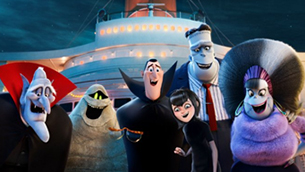
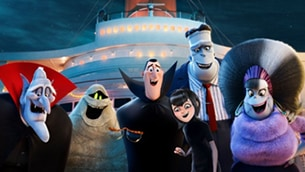
refactor: compressed all images

diff --git a/src/containers/browse.js b/src/containers/browse.js
@@ -1,9 +1,11 @@
-import React from 'react';
+import React, { useState } from 'react';
 import { Card, Header } from '../components';
 import * as ROUTES from '../constants/routes';
 import logo from '../logo.svg';
 
-export default function BrowseContainer({ selection, setSelection, slides }) {
+export default function BrowseContainer({ slides }) {
+  const [selection, setSelection] = useState('series');
+
   return (
     <>
       <Header bg={false}>
@@ -21,11 +23,11 @@ export default function BrowseContainer({ selection, setSelection, slides }) {
       </Header>
 
       <Card.Group>
-        {slides.map((slideItem) => (
+        {slides[selection].map((slideItem) => (
           <Card key={`${slideItem.title}-${slideItem.genre}`}>
             <Card.Title>{slideItem.title}</Card.Title>
             <Card.Entities>
-              {slideItem.data?.map((item) => (
+              {slideItem.data.map((item) => (
                 <Card.Item key={item.docId}>
                   <Card.Image src={`/images/${selection}/${item.genre}/${item.slug}/small.jpg`} />
                   <Card.Meta>

diff --git a/src/components/card/index.js b/src/components/card/index.js
@@ -2,7 +2,11 @@ import React from 'react';
 import { Container, Group, Title, SubTitle, Text, Meta, Entities, Item, Image } from './styles/card';
 
 export default function Card({ children, ...restProps }) {
-  return <Container {...restProps}>{children}</Container>;
+  return (
+    <Container {...restProps} onLoad={() => 'loaded'}>
+      {children}
+    </Container>
+  );
 }
 
 Card.Group = function CardGroup({ children, ...restProps }) {
@@ -37,8 +41,8 @@ Card.Item = function CardItem({ children, ...restProps }) {
   return <Item {...restProps}>{children}</Item>;
 };
 
-Card.Image = function CardImage({ src, ...restProps }) {
-  return <Image src={src} {...restProps} />;
+Card.Image = function CardImage({ ...restProps }) {
+  return <Image {...restProps} />;
 };
 
 // loading state on cards (placeholder)

diff --git a/src/pages/browse.js b/src/pages/browse.js
@@ -7,12 +7,11 @@ export default function Browse() {
   const { series } = useContent('series');
   const { films } = useContent('films');
   const [profileId, setProfileId] = useState(null);
-  const [selection, setSelection] = useState('series');
-  const slideData = selectionMap({ series, films });
+  const slides = selectionMap({ series, films });
 
   return profileId ? (
     <>
-      <BrowseContainer selection={selection} setSelection={setSelection} slides={slideData[selection]} />
+      <BrowseContainer slides={slides} />
       <FooterContainer />
     </>
   ) : (

diff --git a/src/hooks/use-content.js b/src/hooks/use-content.js
@@ -1,7 +1,10 @@
 import { useEffect, useState, useContext } from 'react';
 import { FirebaseContext } from '../context/firebase';
 
+// with the profile id updating, this is going to get called again and again,
+// need to figure out how to stop that
 export default function useContent(target) {
+  console.log('here');
   const [content, setContent] = useState([]);
   const { firebase } = useContext(FirebaseContext);
 

diff --git a/src/pages/home.js b/src/pages/home.js
@@ -20,7 +20,7 @@ export default function Home() {
       </HeaderContainer>
 
       {jumboData.map((item) => (
-        <Jumbotron direction={item.direction}>
+        <Jumbotron id={item.id} direction={item.direction}>
           <Jumbotron.Pane>
             <Jumbotron.Title>{item.title}</Jumbotron.Title>
             <Jumbotron.SubTitle>{item.subTitle}</Jumbotron.SubTitle>

diff --git a/src/containers/faqs.js b/src/containers/faqs.js
@@ -1,6 +1,6 @@
 import React from 'react';
 import { Accordion, OptForm } from '../components';
-import faqsData from '../fixtures/jumbo';
+import faqsData from '../fixtures/faqs';
 
 export default function FaqsContainer() {
   return (

diff --git a/src/components/card/styles/card.js b/src/components/card/styles/card.js
@@ -62,7 +62,6 @@ export const Meta = styled.div`
 
 export const Image = styled.img`
   border: 0;
-  background: url(${(props) => props.src});
   width: 100%;
   max-width: 305px;
   height: auto;

diff --git a/src/pages/signup.js b/src/pages/signup.js
@@ -1,5 +1,6 @@
 import React from 'react';
 
 export default function Signup() {
+  console.log('==========================================');
   return <p>Signup...</p>;
 }
